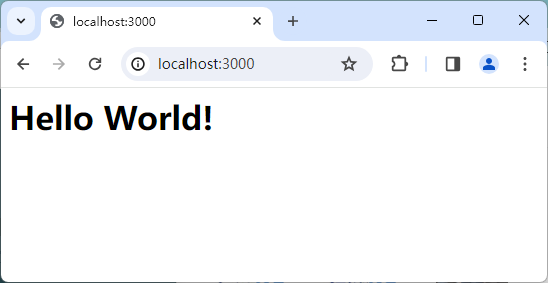
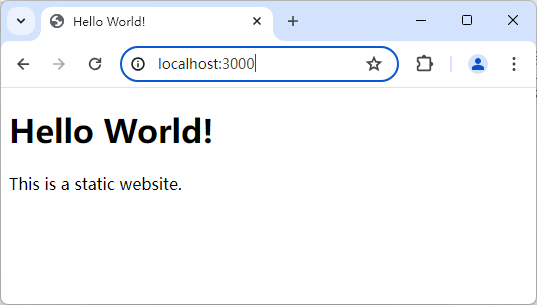
'项目2：完成'

diff --git a/Examples/02_studynodejs/helloExpress/index.js b/Examples/02_studynodejs/helloExpress/index.js
@@ -10,9 +10,13 @@ const port = 3000;
 // 创建自定义的路由对象
 const router = require('./router');
 
-// 将 static 目录设置为静态资源目录
-// 该目录可以被前端直接访问，因此用于部署静态网站
-app.use(express.static(path.join(__dirname, 'static')));
+app.use(express.static(
+    // 将 static 目录设置为静态资源目录
+    // 该目录可以被前端直接访问，因此用于部署静态网站
+    path.join(__dirname, 'static'),
+    // 设置静态网站的默认首页
+    {index: 'index.htm'}
+));
 
 // 在此处新增一行代码，
 // 将针对 http://localhost:3000/api/* 这组 URL 的请求交给router处理，

diff --git a/Markdown/02.md b/Markdown/02.md
@@ -900,6 +900,8 @@ test()
 3. 最后，读者需要回到项目的入口文件中（即`02_studynodejs/helloExpress/index.js`文件）中，将该文件中的代码修改如下。
 
     ```JavaScript
+    // 引入用于操作文件路径的Node.js模块
+    const path = require('path'); 
     // 引入 Express.js 框架文件
     const express = require('express');
     // 创建一个 Express 应用实例
@@ -909,11 +911,10 @@ test()
 
     // 创建自定义的路由对象
     const router = require('./router');
-
-    // 响应客户端对于“/”目录的HTTP GET请求
-    app.get('/', (req, res) => {
-        res.send('<h1>Hello World!</h1>');
-    })
+    
+    // 将 static 目录设置为静态资源目录
+    // 该目录可以被前端直接访问，因此用于部署静态网站
+    app.use(express.static(path.join(__dirname, 'static')));
 
     // 在此处新增一行代码，
     // 将针对 http://localhost:3000/api/* 这组 URL 的请求交给router处理，
